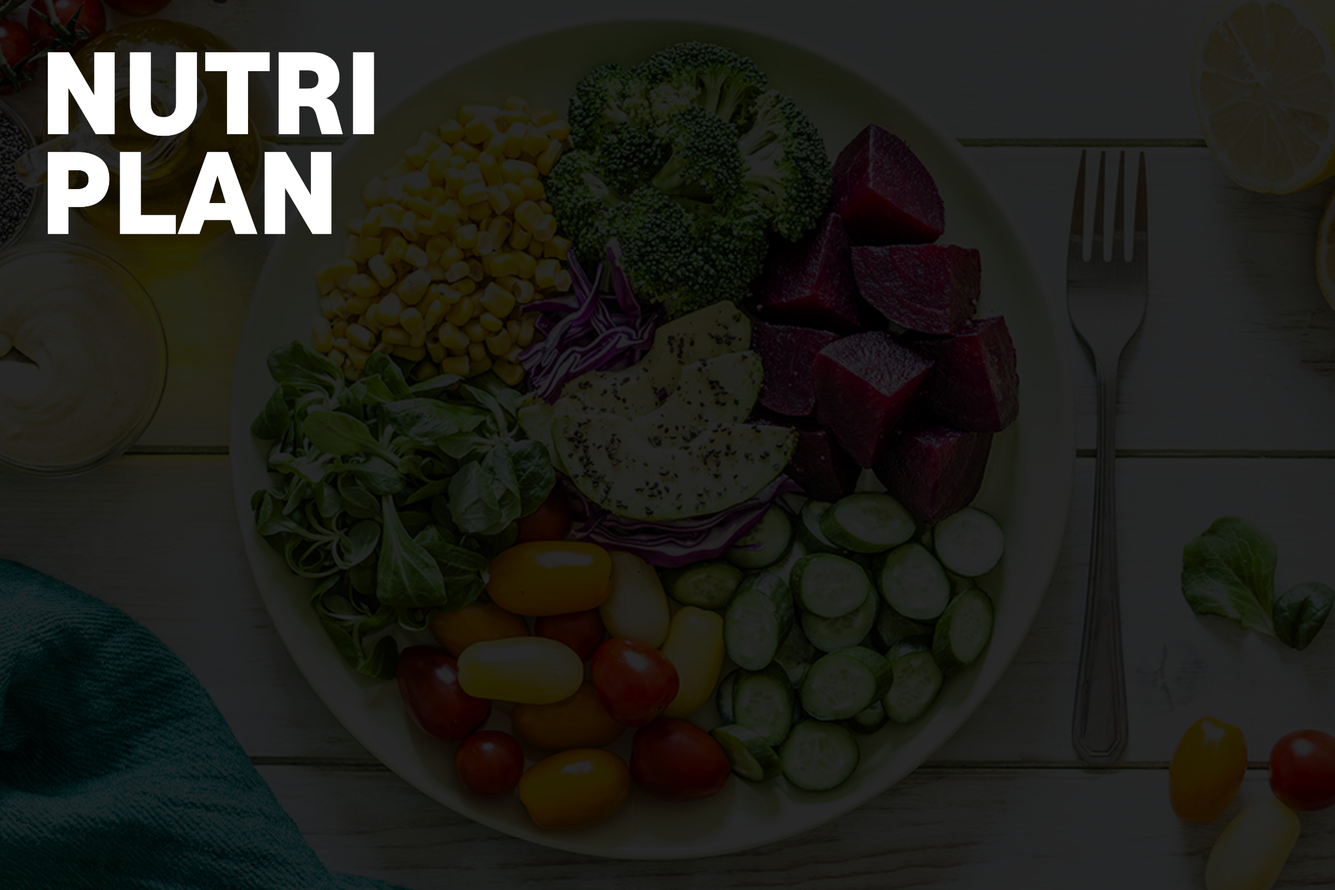
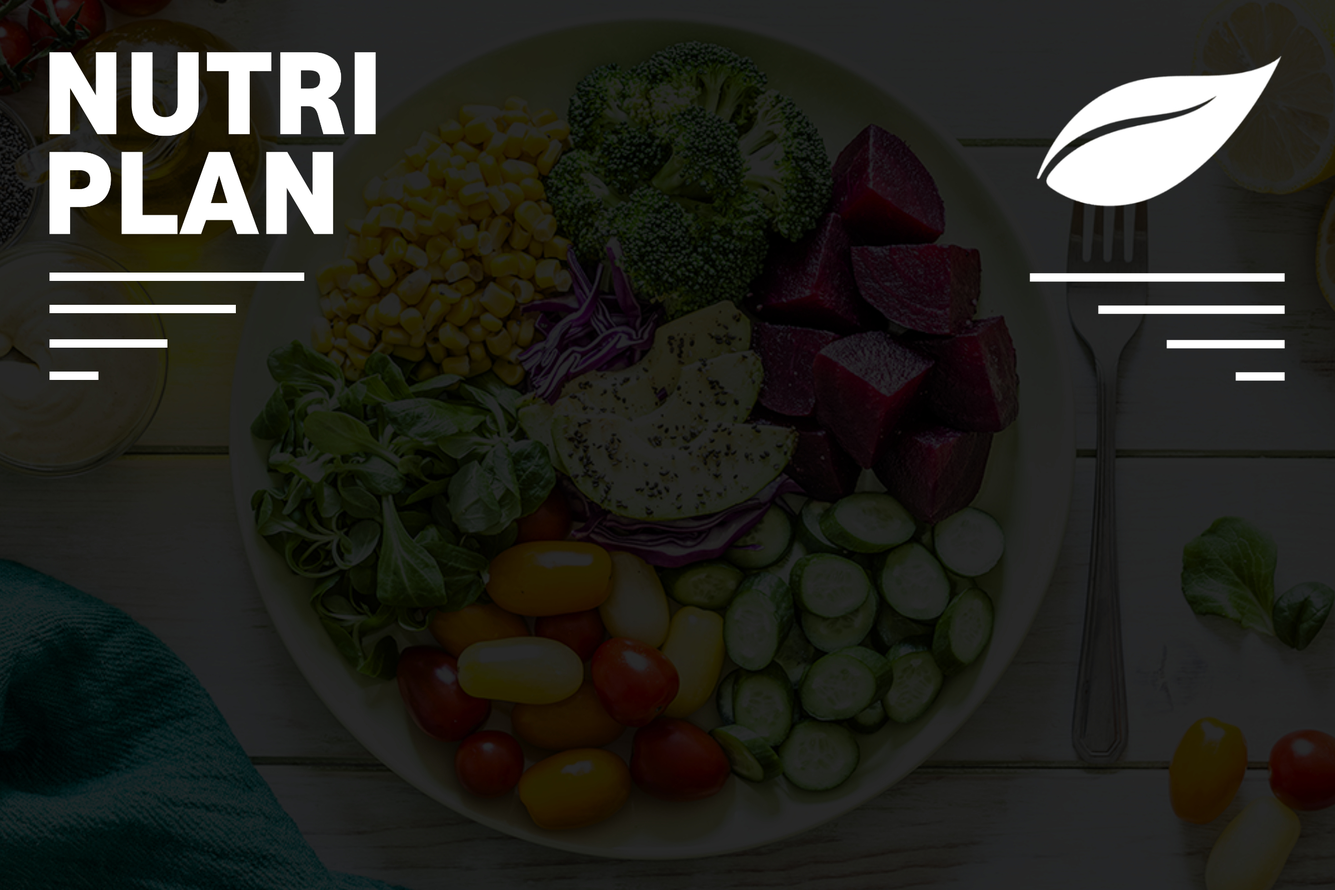
cambiamos la segunda imagen del carrusel

diff --git a/src/app/modules/inicio/pages/inicio/inicio.component.html b/src/app/modules/inicio/pages/inicio/inicio.component.html
@@ -40,7 +40,7 @@
               </div>
             </div>
             <div class="carousel-item" data-bs-interval="2000">
-              <img src="assets/images/budin.jpg" class="d-block w-100" alt="..." >
+              <img src="assets/images/nutricarrusel2.jpg" class="d-block w-100" alt="..." >
               <div class="carousel-caption d-none d-md-block">
                 
                 
